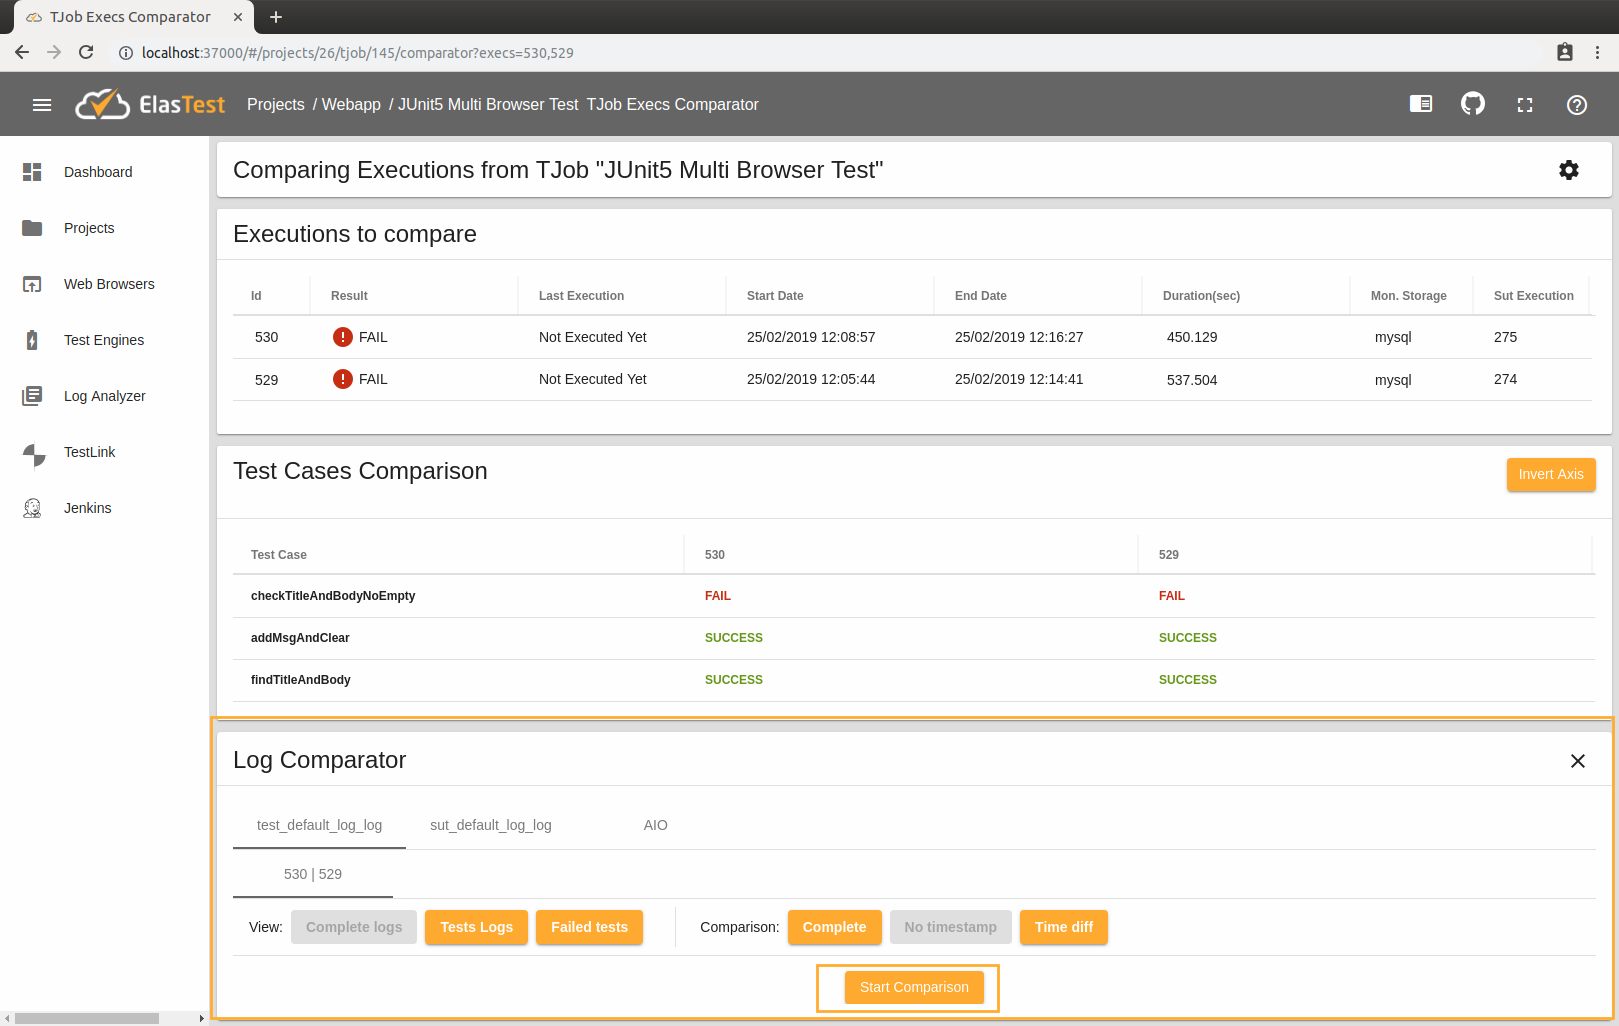
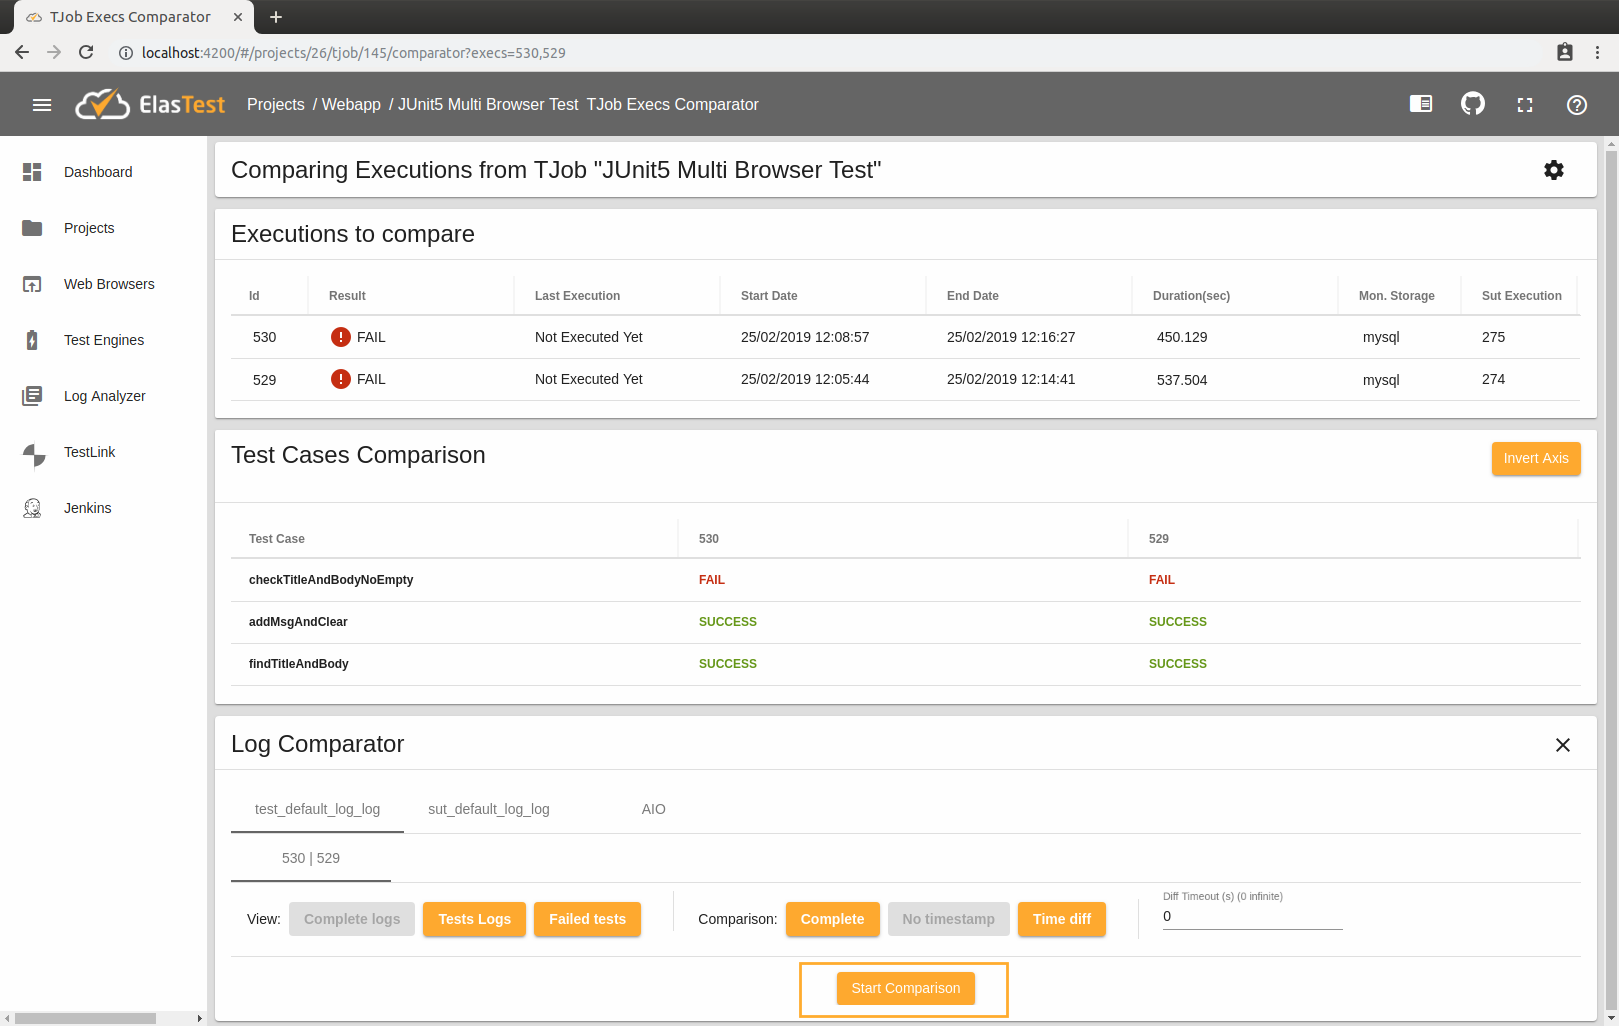
preparing 1.2.0 version

diff --git a/docs/releases/index.md b/docs/releases/index.md
@@ -5,6 +5,31 @@
 </div>
 
 <!-- ************************* -->
+<!-- ********* 1.2.0 ********* -->
+<!-- ************************* -->
+
+<h3 id="1.2.0" class="small-subtitle">1.2.0</h3>
+<h4 class="smaller-subtitle">01/03/2019</h4>
+
+<h5 class="smaller-subtitle">Features & Improvements</h5>
+
+-   <a target="_blank" href="/docs/executions-comparator/#log-comparator">Log Comparator:</a>
+    -   Now you can set the **`timeout`** to calculate the diff. Default: 0 (infinite)
+    -   The **`line numbering`** for the **Tests Logs mode** starts at **1 for each test case** and the line number is **not shown in the name** of the test case.
+    -   Now the **Complete** mode shows the complete message **as it is saved** (sometimes it has timestamp and sometimes not) and the **Non-timestamp** mode **`removes`** it from messages that contain it.
+-   <a target="_blank" href="/docs/testlink">TestLink:</a>
+    -   Added a button to the main table that **`removes`** all synchronized data from elastest and **`resynchronizes`** it.
+    -   TestLink now allows you to **`select a platform`** when running a Test Plan.
+    -   **`General improvements`** in stability and styles.
+
+<h5 class="smaller-subtitle">Bug Fixes</h5>
+
+-   <a target="_blank" href="/docs/testlink">TestLink:</a>
+    -   Test cases are now executed **`sorted by id`** during execution and not randomly.
+    -   Fixed the bug that, if a test case was associated with **more than one test plan**, **`only appeared`** in the Test Plan to which it had been **associated recently**.
+    -   Now the **url** of an **external sut** **`opens automatically`** in the browser during execution.
+
+<!-- ************************* -->
 <!-- ********* 1.1.0 ********* -->
 <!-- ************************* -->
 

diff --git a/docs/executions-comparator/index.md b/docs/executions-comparator/index.md
@@ -63,12 +63,12 @@ In addition, within **each of these tabs** there will be one tab **for each pair
 There are several possible filters that are divided into two categories:
 
 -   **`View`**:
-    -   **Complete logs**: compare all available logs.
+    -   **Complete logs**: compare all available logs. *(Default)*
     -   **Test Logs**: compare only the logs of the test cases.
     -   **Failed Tests**: compare only the logs of the failed test cases.
 -   **`Comparison`**:
-    -   **Complete**: includes the timestamp in the logs comparison.
-    -   **No timestamp**: only includes the message.
+    -   **Complete**: displays the complete message as it is saved.
+    -   **No timestamp**: if the message contains timestamp, removes it. *(Default)*
     -   **Time diff**: includes the time diff between traces in the logs comparison.
 
 To start the check you should press the button Start Comparison:

diff --git a/docs/testlink/index.md b/docs/testlink/index.md
@@ -67,9 +67,10 @@ You can associate a SuT previously created in the editing page.
 On the other hand, you can run the test plan clicking the "Execute Test Plan" button located on the top right. Immediately after clicking on the button, a modal will be displayed in which you can select the next configuration:
 
 -   **Select Build** to run the test.
--   **Select Browser and it's version**
+-   **Select Browser and it's version**.
+-   **Select a Platform**.
 -   **Configure a hosts list** to put them in the browser container **/etc/hosts**.
-
+<p></p>
 <div class="docs-gallery inline-block">
     <a data-fancybox="gallery-4" href="/docs/testlink/images/execute_plan_modal.png"><img class="img-responsive img-wellcome" src="/docs/testlink/images/execute_plan_modal.png"/></a>
 </div>
